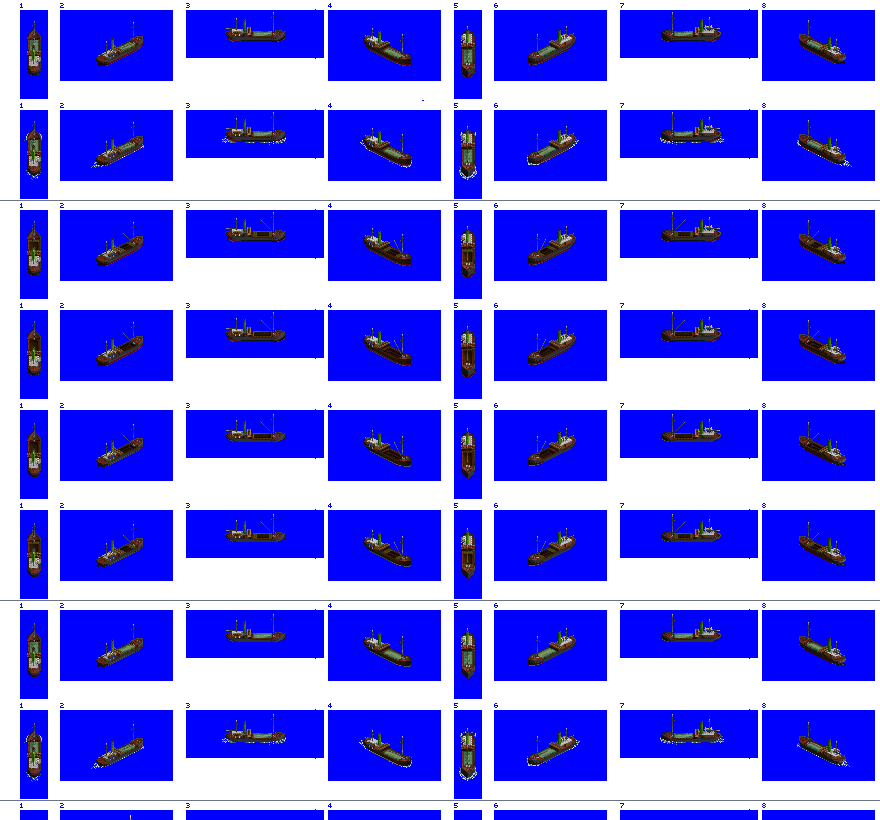
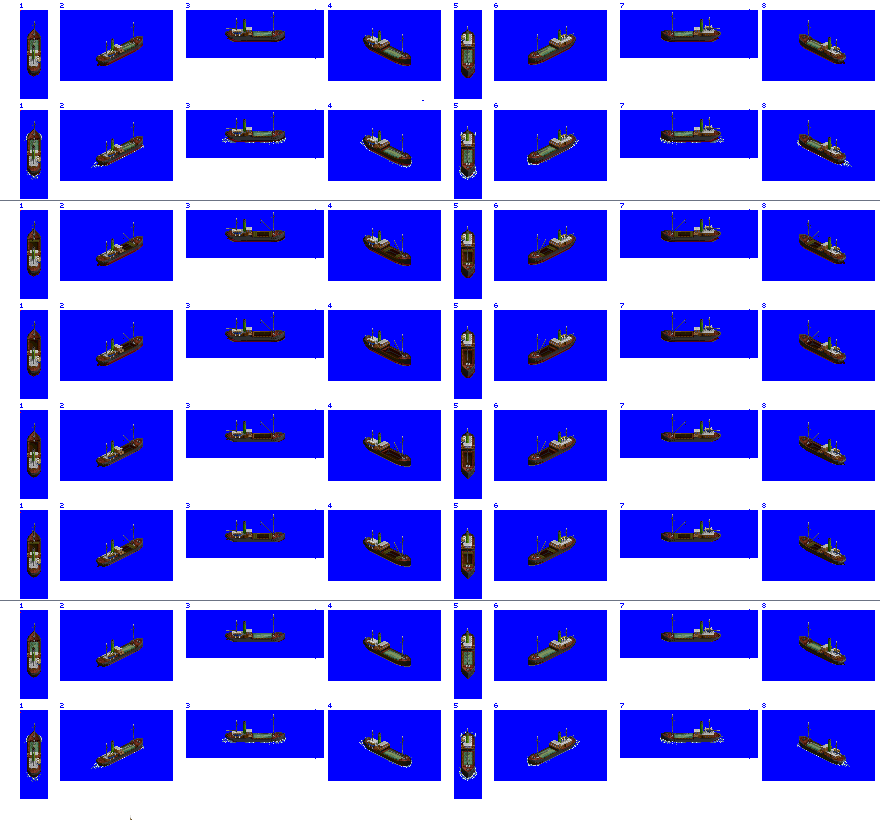
Change: remove graphic variation for Little Cumbrae freighter

Changed region(s): [[0.0, 0.9756, 1.0, 1.0]]

diff --git a/src/ships/little_cumbrae_freighter.py b/src/ships/little_cumbrae_freighter.py
@@ -24,9 +24,5 @@ ship = GeneralCargoVessel(id = 'little_cumbrae_freighter',
             graphics_status = 'Done',)
 
 ship.add_model_variant(intro_date=0,
-                       end_date=1920,
-                       spritesheet_suffix=0)
-
-ship.add_model_variant(intro_date=1920,
                        end_date=global_constants.max_game_date,
-                       spritesheet_suffix=1)
+                       spritesheet_suffix=0)
